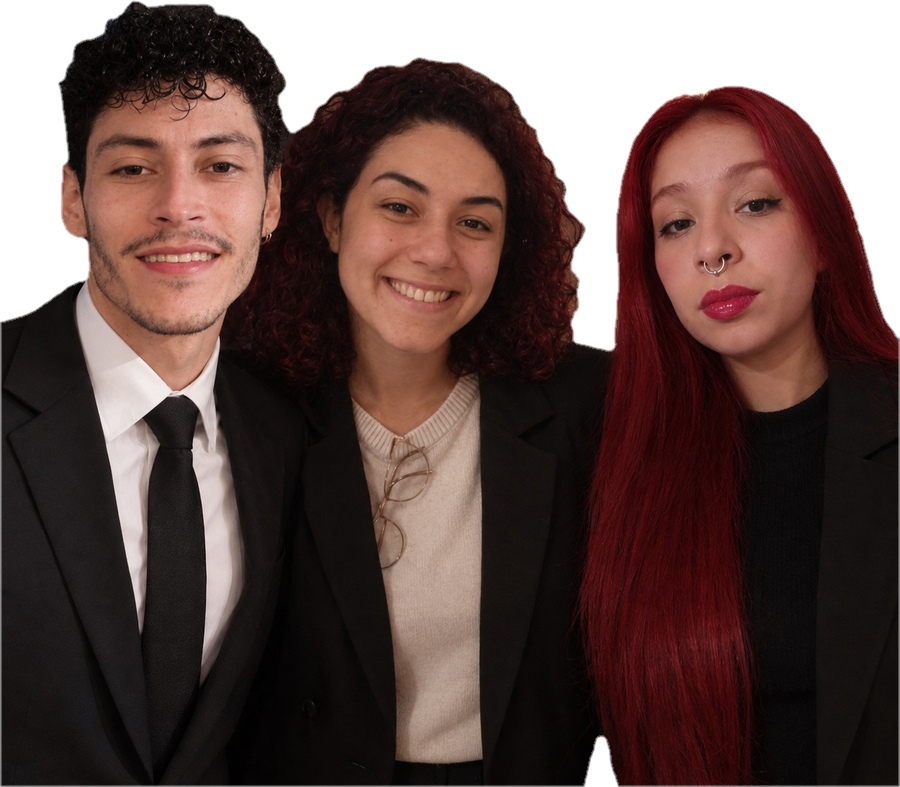
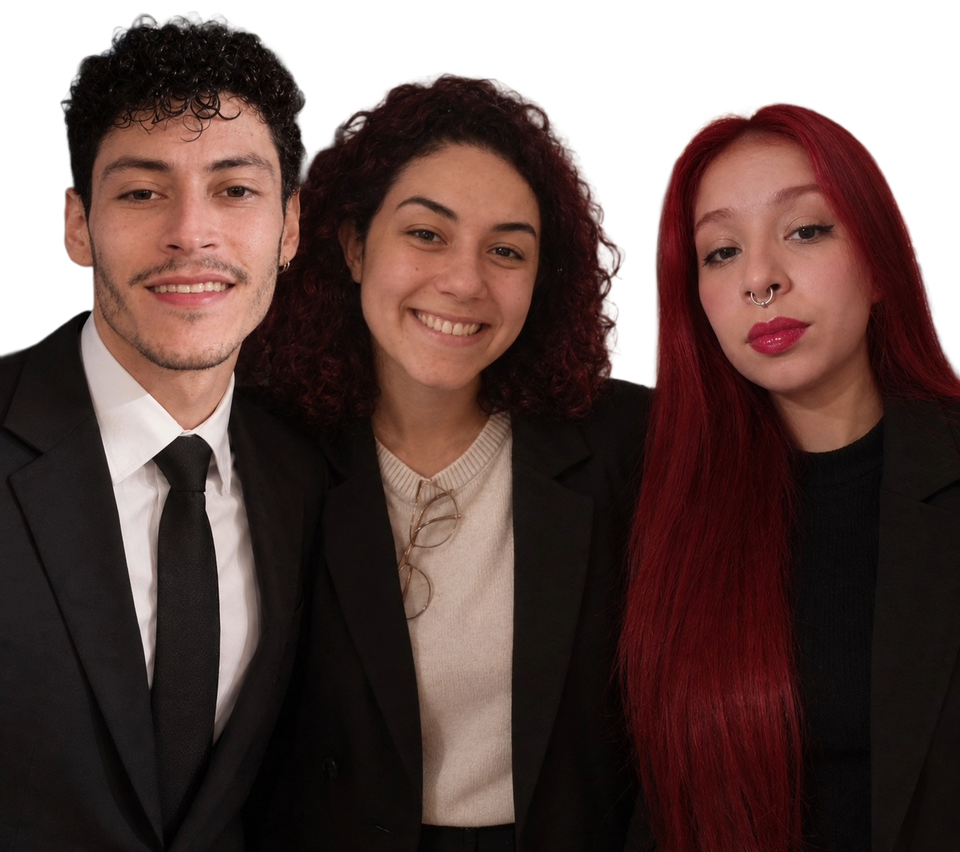
Atualiza para o novo recorte da equipe, sem residuo de fundo
A nova versao enviada ja veio com uma remocao de fundo mais limpa
(confirmado comparando sobre magenta: sem halo castanho no cabelo).
Apenas recorta a margem transparente do topo e reotimiza para web.

diff --git a/index.html b/index.html
@@ -439,7 +439,7 @@ a.person__row:hover span:not(.chip){color:var(--rose);border-color:var(--rose)}
         <figure class="equipe__photo reveal">
           <picture>
             <source srcset="equipe.webp" type="image/webp">
-            <img src="equipe.png" alt="Equipe da Pleno Contabilidade" loading="lazy" width="900" height="787">
+            <img src="equipe.png" alt="Equipe da Pleno Contabilidade" loading="lazy" width="960" height="852">
           </picture>
         </figure>
       </div>
